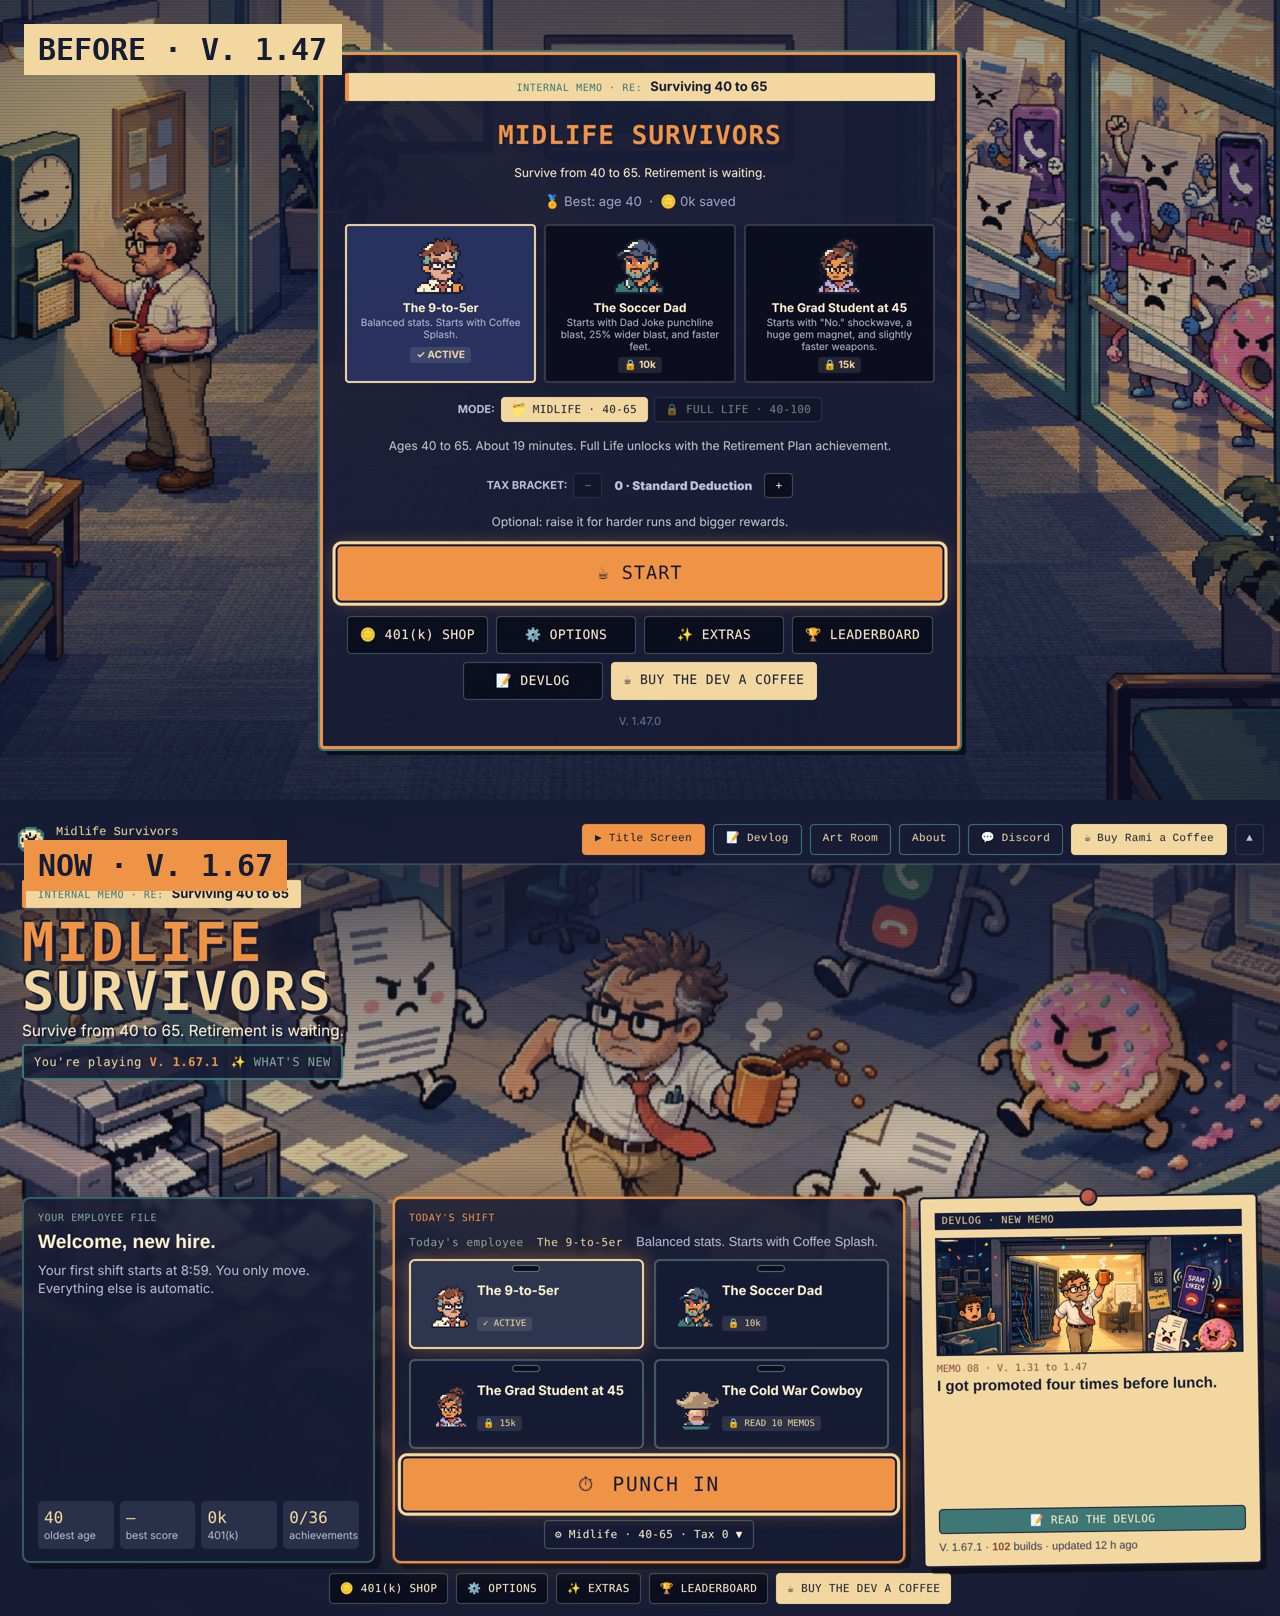
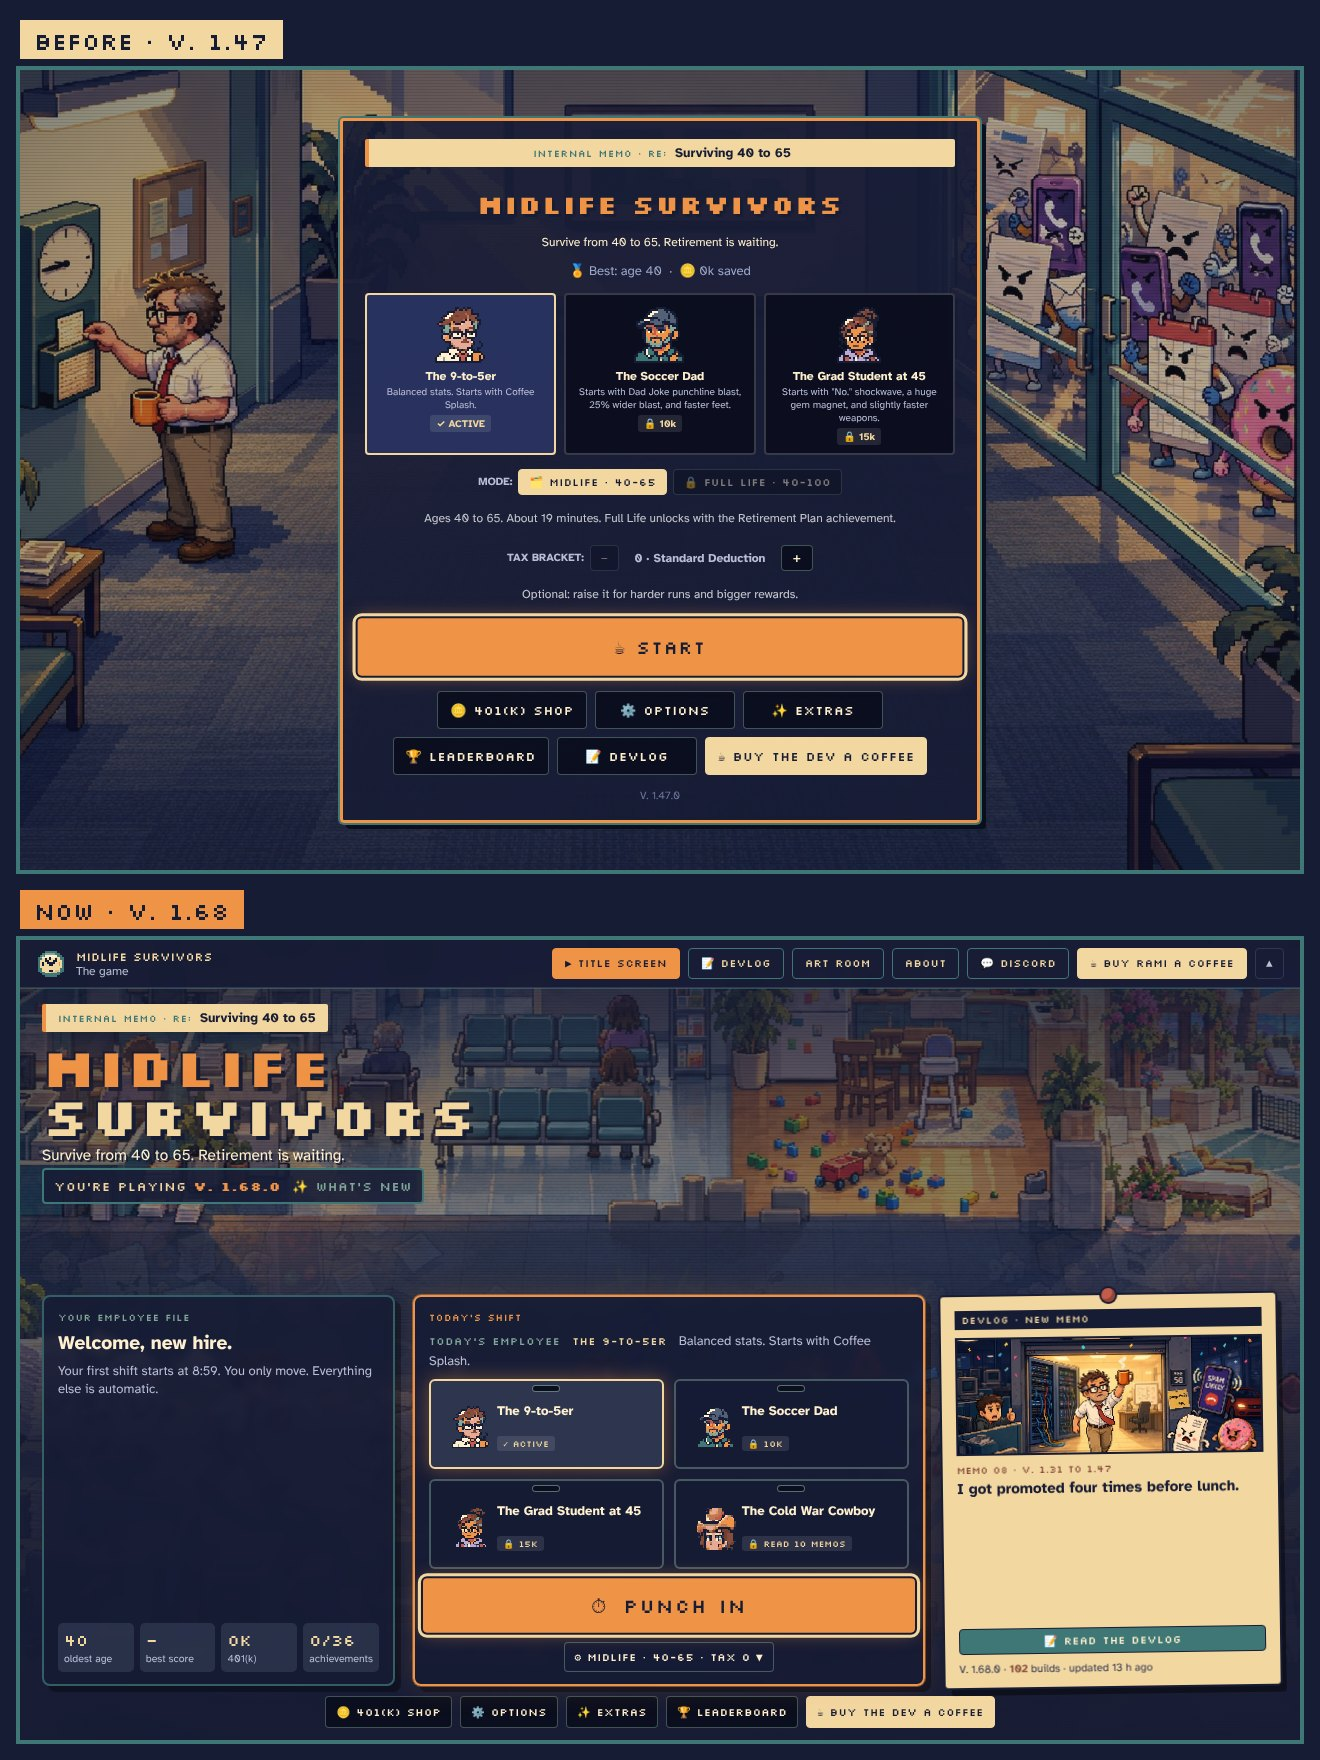
V. 1.68.1: Lounge card uses TJ and Derek's On Break portraits; phone names wrap beside the sprite; Memo 09 before/after images remade at true proportions
Claude-Session: https://claude.ai/code/session_01Lig4WMWRCVLc1Xd5Xfcw9r

diff --git a/src/spotlight.js b/src/spotlight.js
@@ -55,7 +55,7 @@ window.Spotlight = (() => {
 #spotlight.out .sp-dim,#spotlight.out .sp-beam,#spotlight.out .sp-glow,#spotlight.out .sp-bar,#spotlight.out .sp-puff{animation:spGone .3s ease-in both}
 @media (orientation:portrait),(max-width:760px){
  #spotlight{--s:.62;--lift:86px}
- #spotlight .sp-text{left:var(--L);right:max(12px,4vw);text-align:right;align-items:flex-end}
+ #spotlight .sp-text{left:calc(var(--L) + var(--aw) * .72);right:max(12px,4vw);text-align:right;align-items:flex-end}
  #spotlight .sp-kick{align-self:flex-end}
  #spotlight .sp-tip{left:var(--L);right:max(12px,4vw);justify-content:flex-end}
  #spotlight .sp-say{left:auto;right:max(12px,4vw);max-width:62vw;bottom:calc(250px * var(--s) + var(--lift))}
@@ -171,7 +171,7 @@ window.Spotlight = (() => {
     return fallback;
   }
   // Warm up the hero portrait sheets so the sprite rises with the card instead of popping in late.
-  setTimeout(() => Object.values(S().heroSheets || {}).forEach(slug => { const im = new Image(); im.src = `assets/characters/portraits/${slug}.png`; }), 3000);
+  setTimeout(() => { Object.values(S().heroSheets || {}).forEach(slug => { const im = new Image(); im.src = `assets/characters/portraits/${slug}.png`; }); ((window.INTERNS || {}).roster || []).forEach(r => { if (r.portrait) { const im = new Image(); im.src = r.portrait; } }); }, 3000);
   const heroId = () => (typeof meta !== "undefined" && meta && meta.selectedChar) || "officeWorker";
   const heroArt = id => `assets/characters/portraits/${(S().heroSheets || {})[id] || "office-worker-on-break-v1"}.png`;
 
@@ -190,7 +190,8 @@ window.Spotlight = (() => {
     lounge(r) {
       const line = (r.lines || [])[Math.floor(Math.random() * (r.lines || []).length)] || "Cash only.";
       show({ kicker: "NOW OPEN", name: "THE LOUNGE", line: r.name + ": " + line, tip: "Follow the arrow to the Break Room counter.",
-             art: (window._activeGameScene && _activeGameScene.textures.exists("intern2_" + r.id)) ? r.sheet : null, artType: "intern", edge: "#EF9347", band: "#3E7775", ms: 5000 });
+             // On Break portrait (same 96x112 format as the heroes, by ChatGPT); falls back to the counter sprite.
+             art: r.portrait || ((window._activeGameScene && _activeGameScene.textures.exists("intern2_" + r.id)) ? r.sheet : null), artType: r.portrait ? "hero" : "intern", edge: "#EF9347", band: "#3E7775", ms: 5000 });
       return true;
     },
     hire(id) {

diff --git a/src/data/interns.js b/src/data/interns.js
@@ -5,10 +5,10 @@ window.INTERNS = {
   enabled: true,
   roster: [
     // Placeholder colors from Rami's photos (Nov 3): TJ in a gray beanie, glasses, black parka; Derek with dark curly hair, beard, glasses.
-    { id: "tj", name: "TJ", title: "Coffee Runner", sheet: "assets/characters/intern-tj-v2.png", shirt: "#22263d", skin: "#5c3a26", hair: "#4a4f5c", glasses: true, beanie: true, pants: "#b0844f",
+    { id: "tj", name: "TJ", title: "Coffee Runner", sheet: "assets/characters/intern-tj-v2.png", portrait: "assets/characters/portraits/intern-tj-on-break-v1.png", shirt: "#22263d", skin: "#5c3a26", hair: "#4a4f5c", glasses: true, beanie: true, pants: "#b0844f",
       lines: ["You're old enough to be my dad!", "Do you want Chipotle for lunch?", "What were the dinosaurs like?",
               "Oh big coffee guy huh?", "Another coffee today?", "I love my job!", "For my Manager!!!"] },
-    { id: "derek", name: "Derek", title: "Snack Scout", sheet: "assets/characters/intern-derek-v2.png", shirt: "#22263d", skin: "#e0a98c", hair: "#2a1d15", glasses: true, beard: true,
+    { id: "derek", name: "Derek", title: "Snack Scout", sheet: "assets/characters/intern-derek-v2.png", portrait: "assets/characters/portraits/intern-derek-on-break-v1.png", shirt: "#22263d", skin: "#e0a98c", hair: "#2a1d15", glasses: true, beard: true,
       // Placeholder lines until Derek sends his own.
       lines: ["Got you something, boss.", "Is this part of the internship?", "They told me to bring you this.", "Don't tell HR I ran."] }
   ],

diff --git a/src/data/version.js b/src/data/version.js
@@ -2,12 +2,20 @@
 // Update `version`, `displayVersion`, `lastUpdated`, `build`, and prepend a `changelog` entry after each finished step!
 
 const GAME_VERSION = {
-  version: "1.68.0",
-  displayVersion: "V. 1.68.0",
+  version: "1.68.1",
+  displayVersion: "V. 1.68.1",
   lastUpdated: "Nov 3, 2026",
   codename: "The Cold War Cowboy",
-  build: 156,
+  build: 157,
   changelog: [
+    {
+      ver: "V. 1.68.1", date: "Nov 3, 2026", title: "The Cold War Cowboy",
+      teaser: "The Lounge card now shows TJ and Derek's big new portraits: TJ raises his coffee, Derek snaps a photo.",
+      highlights: [
+        "When the Lounge opens, its Spotlight card shows a big On Break portrait of TJ (raising his coffee with a grin) or Derek (snapping a photo, flash and all). Art by ChatGPT.",
+        "On phones, long names on Spotlight cards wrap next to the sprite instead of covering it."
+      ]
+    },
     {
       ver: "V. 1.68.0", date: "Nov 3, 2026", title: "The Cold War Cowboy",
       teaser: "Spotlight cards got a glow-up: a real spotlight, a hop-in landing, names that drop in letter by letter, and lines that type themselves.",

diff --git a/src/loader.js b/src/loader.js
@@ -1,7 +1,7 @@
 // Loads the game's code files in order, all tagged with the same BUILD number.
 // index.html fetches this file fresh on every visit, so the browser can't mix an old page with new code
 // (that mismatch broke controls until a second reload). Bump BUILD after every change; it replaces the old ?v= tags.
-window.BUILD = 156;
+window.BUILD = 157;
 window.GAME_FILES = [
   "src/data/version.js",
   "src/data/lore.js",

diff --git a/index.html b/index.html
@@ -1562,7 +1562,7 @@ if (!window.TELEMETRY_OFF && !/[?&]nostats=1/.test(location.search)) {
 <script>
   (function () {
     var s = document.createElement("script");
-    s.src = "src/loader.js?v=156&t=" + Date.now();
+    s.src = "src/loader.js?v=157&t=" + Date.now();
     document.body.appendChild(s);
   })();
 </script>

diff --git a/devlog/posts/09-my-friends-work-here-now.md b/devlog/posts/09-my-friends-work-here-now.md
@@ -43,7 +43,7 @@ He throws a floppy disk that comes back to him. And once a run, when things get 
 
 The part I'm proudest of today is how it all feels together. The game, this devlog and the About page share one look now: the same fonts, the same memo strips, the same progress bar. Your stats follow you from the title screen to the devlog. The title tells you what version you're playing and what's new.
 
-![The title screen before and after. Top, V. 1.47: one centered box of buttons over the key art. Bottom, V. 1.67: a poster title with the key art up front, your employee file, today's shift with Punch In, and the newest devlog memo pinned on the right.](img/09-title-before-after.jpg)
+![The title screen before and after. Top, V. 1.47: one centered box of buttons over the key art. Bottom, V. 1.68: a poster title with the key art up front, your employee file, today's shift with Punch In, and the newest devlog memo pinned on the right.](img/09-title-before-after.jpg)
 
 On a phone, it went from a wall of buttons to a poster you scroll.
 

diff --git a/docs/PROGRESS_LOG.md b/docs/PROGRESS_LOG.md
@@ -1047,3 +1047,5 @@ Newest entries at the bottom. Each work session and weekly check-in adds one ent
 - Memo 09: the lead clip is now the new smooth Ben recording, and the crew-badges and Lounge screenshots were retaken with the new friend art.
 - Next for ChatGPT: big On Break portraits for TJ and Derek so the Lounge card matches the heroes (docs/handoffs/chatgpt-intern-portraits.md).
 - Devlog clips now play like GIFs: no video player bar. Tap the clip or the small pause button to stop it. People who turn on "reduce motion" see it paused.
+- V. 1.68.1: the Lounge card shows ChatGPT's new On Break portraits (TJ raises his coffee, Derek snaps a photo). On phones, long names on Spotlight cards now wrap beside the sprite instead of covering it. Checked all 16 cards on desktop and phone.
+- Memo 09's title before/after images were remade at true proportions with the real fonts (the phone one was squished).

diff --git a/docs/handoffs/chatgpt-changes.md b/docs/handoffs/chatgpt-changes.md
@@ -237,3 +237,5 @@ Newest at the bottom. Rami pastes ChatGPT's change-log blocks here. Claude reads
 - **What.** Made TJ's grinning coffee toast and Derek's camera shot and nod, plus breathing and stretch loops for both. Used the v2 intern sheets and Ben's v3 portrait as imagegen references.
 - **Files.** assets/characters/portraits/README-interns-v1.md links the two native sheets, all six row GIFs and the 1×/4× comparison with Ben and the 9-to-5er.
 - **For Claude.** The sheets are 768×336 with 96×112 cells and shoe line y111. Play row 1 at 140 ms for the Lounge Spotlight. Derek flashes once in column 2, indexed from zero. The remaining rows follow the hero portrait timing.
+
+- [done] Claude wired TJ and Derek's On Break portraits into the Lounge Spotlight card in V. 1.68.1 (Nov 3).
